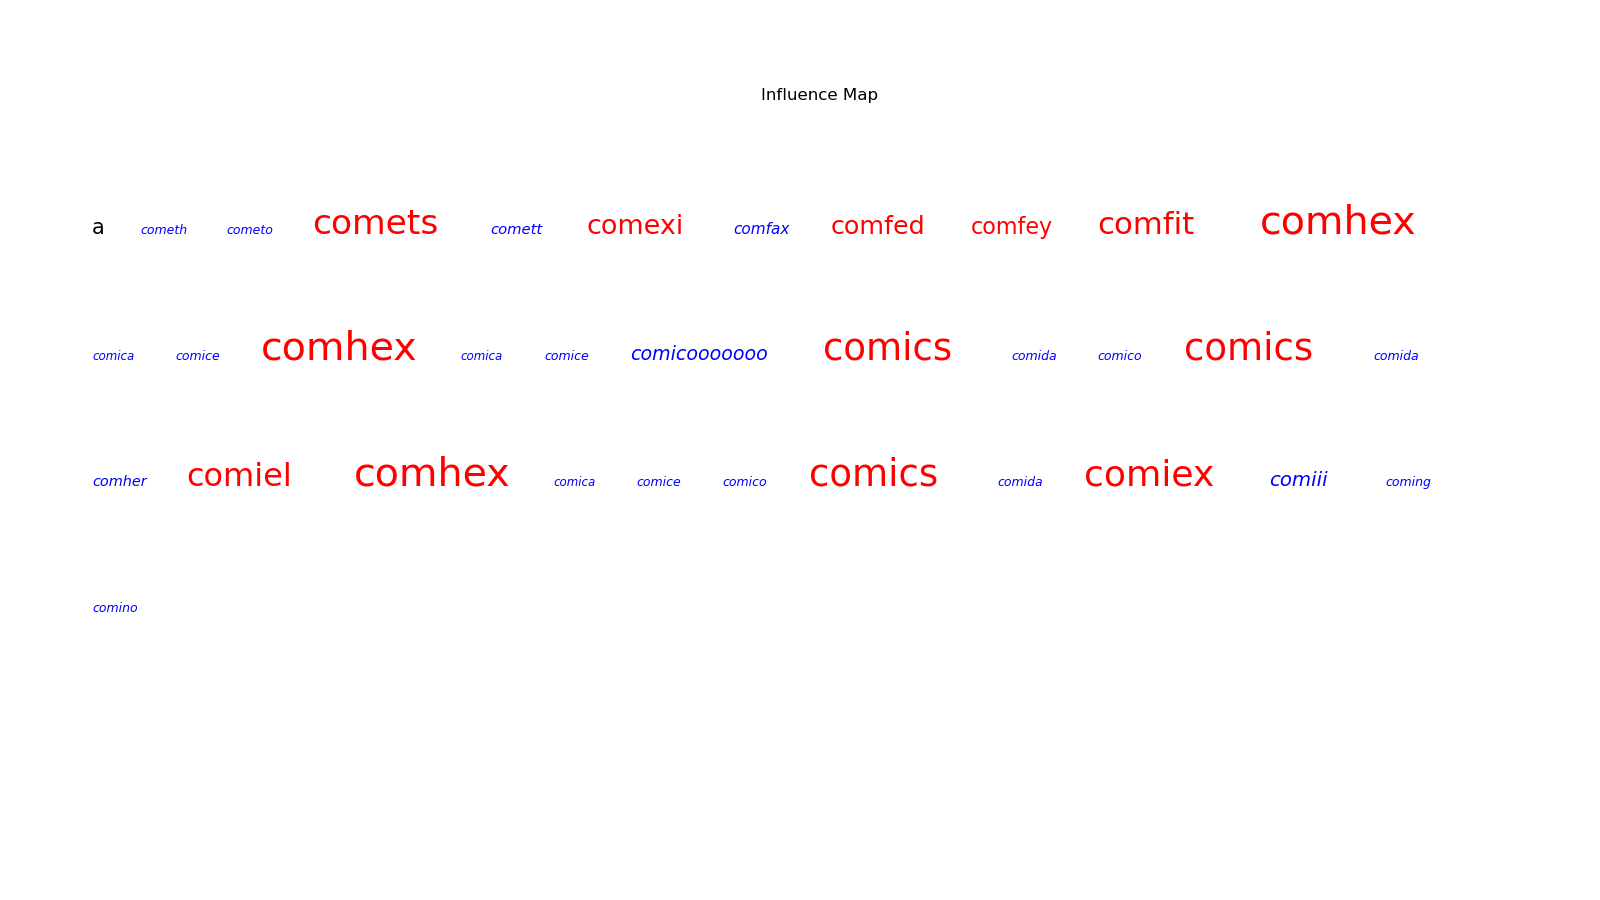
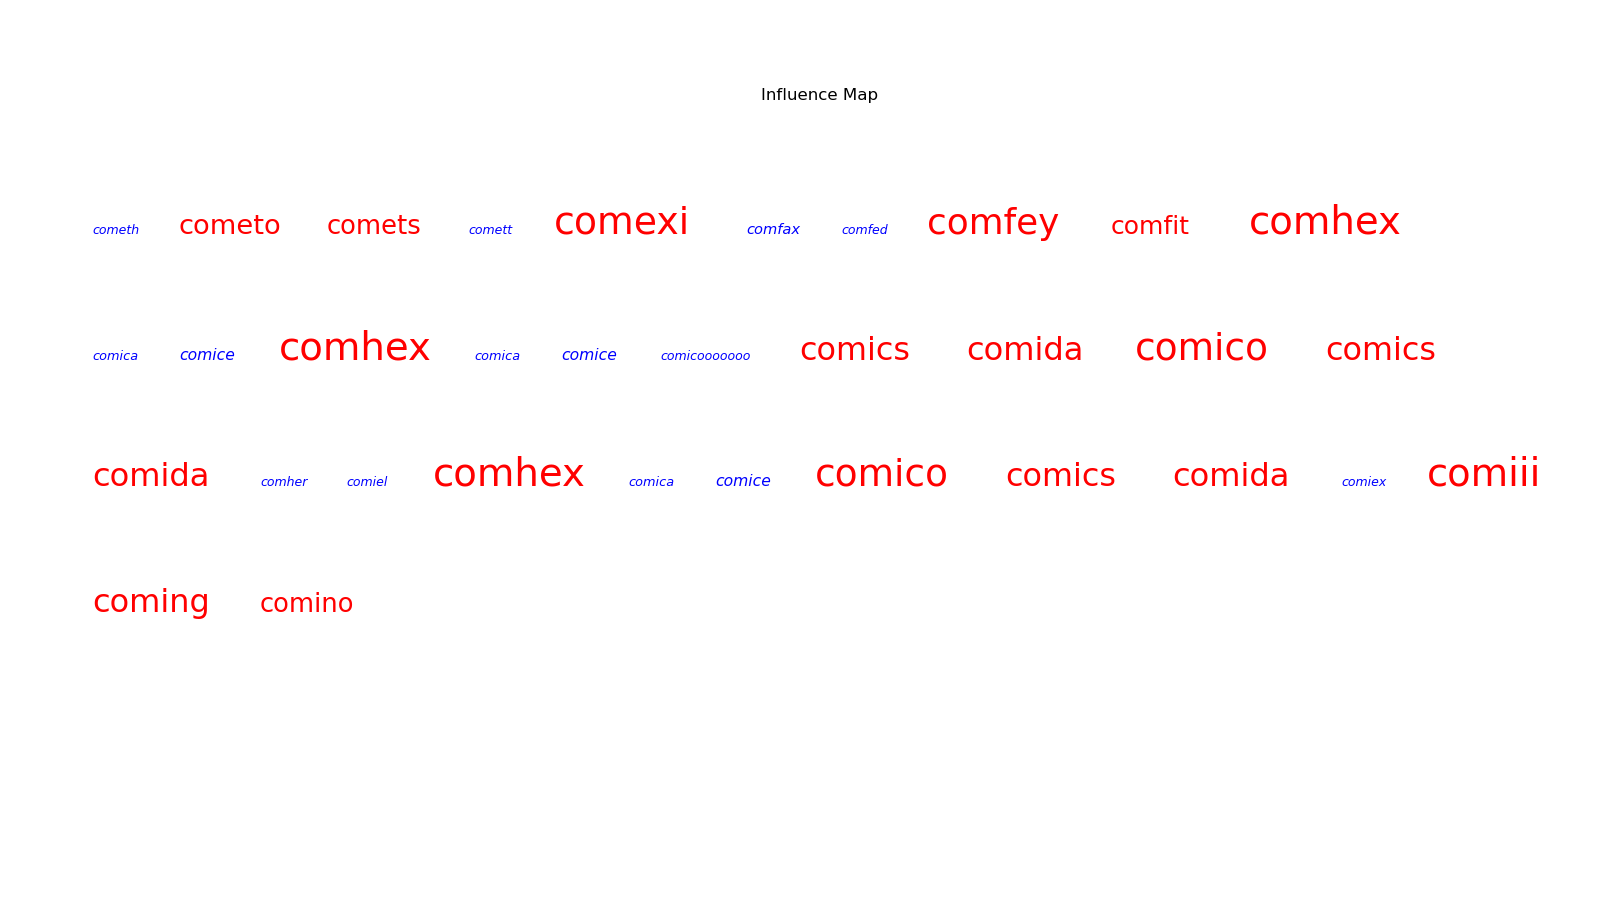
check if word is in list 2

diff --git a/AICharts_Report.py b/AICharts_Report.py
@@ -116,7 +116,7 @@ def AIChart_plot_data_Influence_Map(xAAD,text_list,title="Influence Map",show=Tr
         plt.show()
 #test
 word_dicc = {}
-full_text_list = ["a"]
+full_text_list = []
 
 with open("test.txt","r") as file:
     words = file.readlines()
